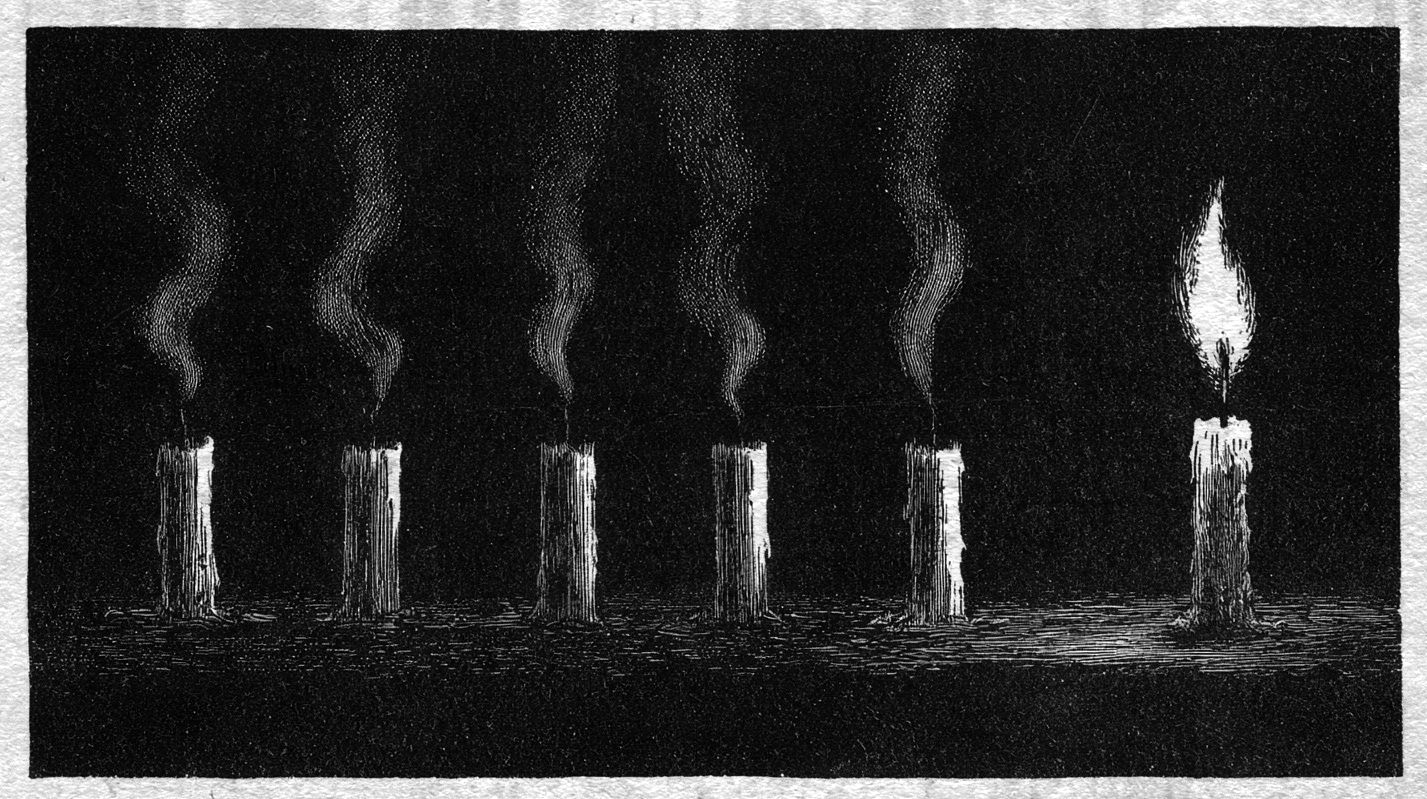
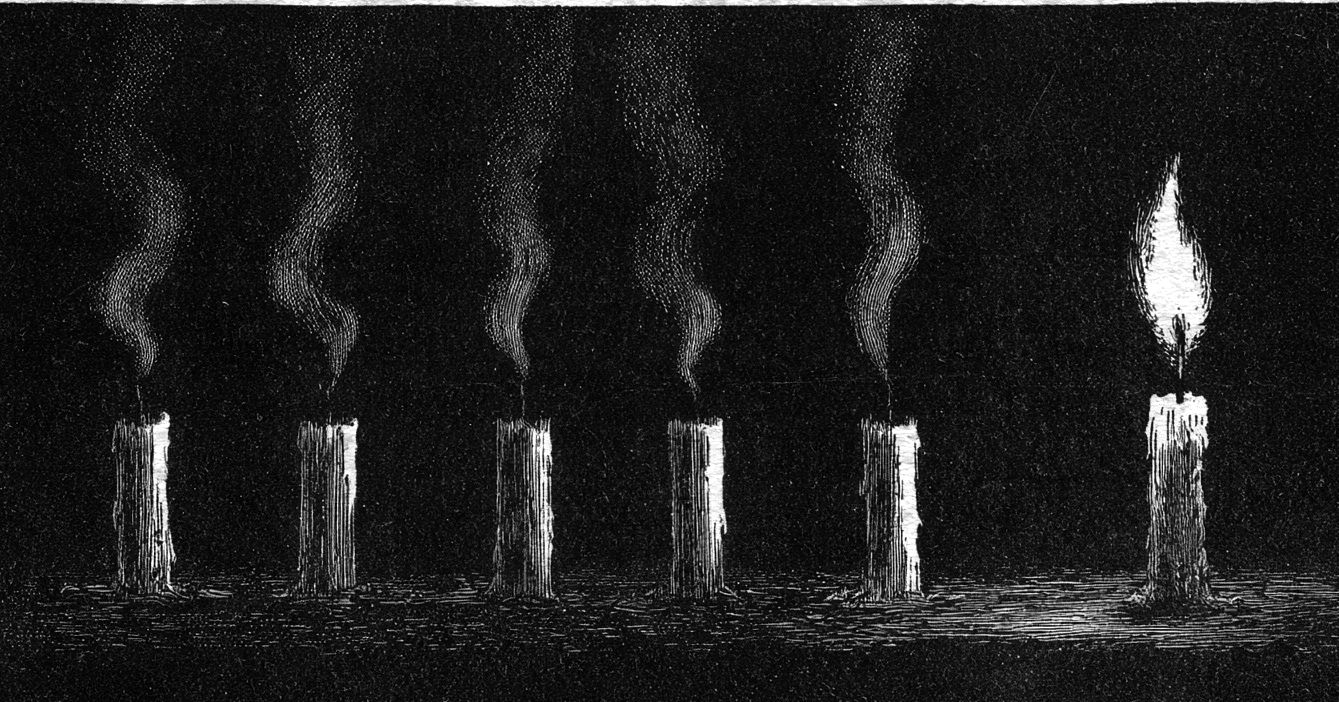
납량란 폰판: 위 띠의 한자 숫자를 아라비아 숫자로 · 일곱째 초 그림 테두리 자름
Claude-Session: https://claude.ai/code/session_01X1y5x5ur2CZT5SHiYxRsCA

diff --git a/m-napryang.html b/m-napryang.html
@@ -34,7 +34,7 @@
 
 <main id="npMain">
 <!-- 자정 · 편집국 -->
-<section class="pro" id="pro" data-ch="자정 · 편집국" data-no="序" data-kj="序" data-sub="봉투 여섯 장">
+<section class="pro" id="pro" data-ch="자정 · 편집국" data-no="0" data-kj="서" data-sub="봉투 여섯 장">
   <div class="pro-ph"><img src="assets/np/g/v2_office.jpg" alt="자정의 편집국, 전등 하나 아래 책상에 봉투 여러 장 (재현 그림)"><span class="rt">그림 · 재현</span></div>
   <div class="pro-tx">
     <p class="pro-k">소화 구 년 녀름, 자정. 편집국</p>
@@ -47,7 +47,7 @@
 </section>
 
 <!-- 제1화 · 현상실 -->
-<article class="ep" id="ep1" data-n="1" data-ch="참살된 소녀의 무덤에 두 청년의 유령" data-no="一" data-kj="봉투 一" data-sub="1926 · 현상실">
+<article class="ep" id="ep1" data-n="1" data-ch="참살된 소녀의 무덤에 두 청년의 유령" data-no="1" data-kj="봉투 1" data-sub="1926 · 현상실">
   <header class="eh"><p class="env">봉투 제일호</p><h2>참살된 소녀의 무덤에<br>두 청년의 유령</h2><p class="meta">동아일보 1926년 8월 13일 · 5면 · 연재 「미국에 잇는 진긔한 사실」</p></header>
   <div class="dv" id="dv">
     <img class="dv-bg" src="assets/np/g/v2_ripple.jpg" alt="">
@@ -70,7 +70,7 @@
 </article>
 
 <!-- 제2화 · 벽보 -->
-<article class="ep" id="ep2" data-n="2" data-ch="귀신 파는 협잡배들" data-no="二" data-kj="봉투 二" data-sub="1932 · 벽보">
+<article class="ep" id="ep2" data-n="2" data-ch="귀신 파는 협잡배들" data-no="2" data-kj="봉투 2" data-sub="1932 · 벽보">
   <header class="eh"><p class="env">봉투 제이호</p><h2>귀신 파는 협잡배들</h2><p class="meta">동아일보 1932년 11월 6일 · 7면 5단 · 사건 보도</p></header>
   <div class="bl" id="bl">
     <div class="bl-in">
@@ -98,7 +98,7 @@
 </article>
 
 <!-- 제3화 · 안개 -->
-<article class="ep" id="ep3" data-n="3" data-ch="괴이한 증봉산" data-no="三" data-kj="봉투 三" data-sub="1927 · 안개">
+<article class="ep" id="ep3" data-n="3" data-ch="괴이한 증봉산" data-no="3" data-kj="봉투 3" data-sub="1927 · 안개">
   <header class="eh"><p class="env">봉투 제삼호</p><h2>괴이한 증봉산</h2><p class="meta">동아일보 1927년 12월 23일 · 3면 5단 · 연재 「전설의 조선」 예순여섯째</p></header>
   <div class="fg" id="fg">
     <img class="fg-bg" src="assets/np/g/v2_path.jpg" alt="달밤, 산 위 작은 사당으로 오르는 돌계단 (재현 그림)">
@@ -115,7 +115,7 @@
 </article>
 
 <!-- 제4화 · 교장 집 -->
-<article class="ep" id="ep4" data-n="4" data-ch="교장 집의 환극" data-no="四" data-kj="봉투 四" data-sub="1924 · 불 꺼진 방">
+<article class="ep" id="ep4" data-n="4" data-ch="교장 집의 환극" data-no="4" data-kj="봉투 4" data-sub="1924 · 불 꺼진 방">
   <header class="eh"><p class="env">봉투 제사호</p><h2>교장 집의 환극</h2><p class="meta">동아일보 1924년 11월 18일 · 2면 5단 · 사건 보도</p></header>
   <figure class="dr"><img src="assets/np/g/v2_shoes.jpg" alt="밤, 열린 미닫이문 앞에 놓인 남자 신과 여자 신 (재현 그림)"><figcaption>수상한 부부가 한 번 다녀갓다.<small>그 뒤, 이 집에서 —</small></figcaption></figure>
   <div class="rm" id="rm">
@@ -140,7 +140,7 @@
 </article>
 
 <!-- 제5화 · 취조 -->
-<article class="ep" id="ep5" data-n="5" data-ch="대답하지 안는 혐의자" data-no="五" data-kj="봉투 五" data-sub="1932 · 취조실">
+<article class="ep" id="ep5" data-n="5" data-ch="대답하지 안는 혐의자" data-no="5" data-kj="봉투 5" data-sub="1932 · 취조실">
   <header class="eh"><p class="env">봉투 제오호</p><h2>대답하지 안는 혐의자</h2><p class="meta">동아일보 1932년 11월 11일 · 2면 5단 · 사건 보도</p></header>
   <div class="iq">
     <div class="iq-ph"><img src="assets/np/g/ep5.jpg" alt="빈 취조실, 책상과 의자 (재현 그림)"><img class="iq-bulb" src="assets/np/g/v2_bulb.jpg" alt=""><span class="rt">그림 · 재현</span></div>
@@ -160,7 +160,7 @@
 </article>
 
 <!-- 제6화 · 철길 -->
-<article class="ep quiet" id="ep6" data-n="6" data-ch="평원선 철길 우에서" data-no="六" data-kj="봉투 六" data-sub="1938 · 묵념">
+<article class="ep quiet" id="ep6" data-n="6" data-ch="평원선 철길 우에서" data-no="6" data-kj="봉투 6" data-sub="1938 · 묵념">
   <header class="eh"><p class="env">봉투 제륙호</p><h2>평원선 철길 우에서</h2><p class="meta">동아일보 1938년 12월 11일 · 4면 9단 · 사건 보도</p></header>
   <figure class="tr"><img src="assets/np/g/v2_train.jpg" alt="눈 덮인 밤 철길, 멀리서 다가오는 기차 불빛 (재현 그림 · 사람 없음)"><span class="rt">그림 · 재현 · 사람을 그리지 안앗소</span></figure>
   <div class="ep-tx">
@@ -172,7 +172,7 @@
 </article>
 
 <!-- 끗 · 일곱째 초 -->
-<section class="end" id="end" hidden data-ch="일곱째 초" data-no="七" data-kj="七" data-sub="당신의 괴담">
+<section class="end" id="end" hidden data-ch="일곱째 초" data-no="7" data-kj="7" data-sub="당신의 괴담">
   <div class="en-dark"><figure class="en-seven"><img src="assets/np/g/np_seven.jpg" alt="꺼진 초 여섯 자루 끝에 홀로 타는 일곱째 초 (재현 그림)"><span class="rt">그림 · 재현</span></figure><p class="e1">초가 다 꺼젓소.</p><p class="e2">그런데 — 아모도 켜지 안은 초가 하나 잇소.</p></div>
   <figure class="en-desk"><img src="assets/np/g/v2_sheet.jpg" alt="촛불 하나 아래 빈 원고지와 펜 (재현 그림)"><span class="rt">그림 · 재현</span></figure>
   <div class="en-sheet">
